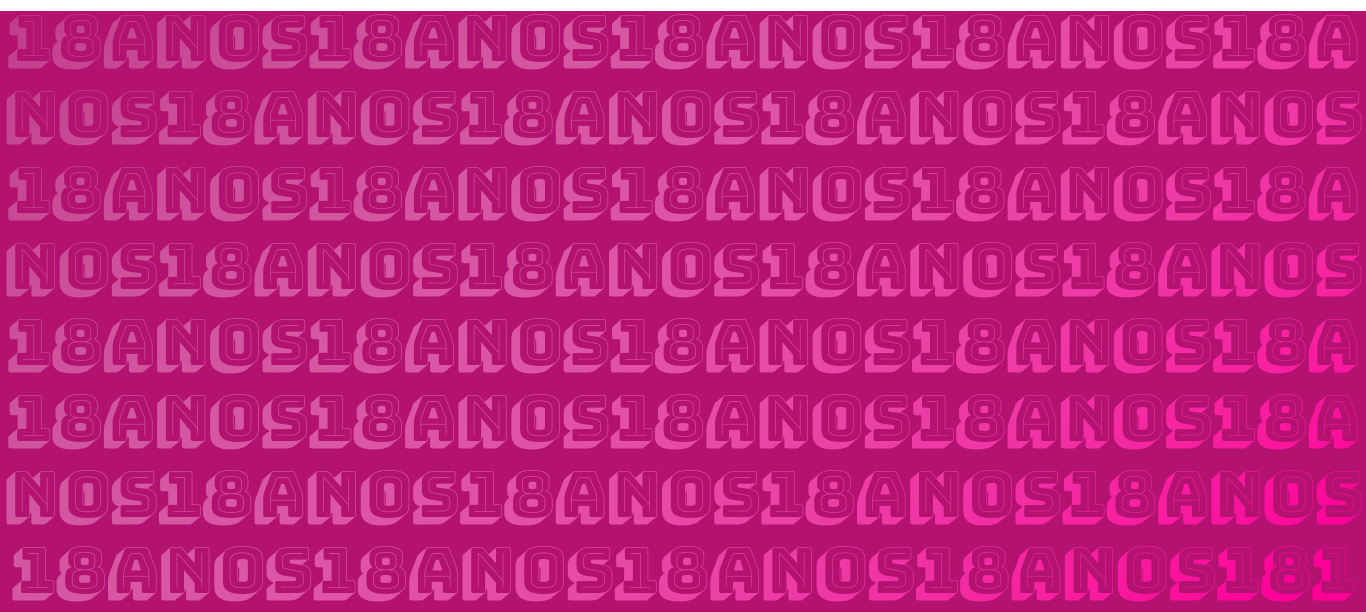
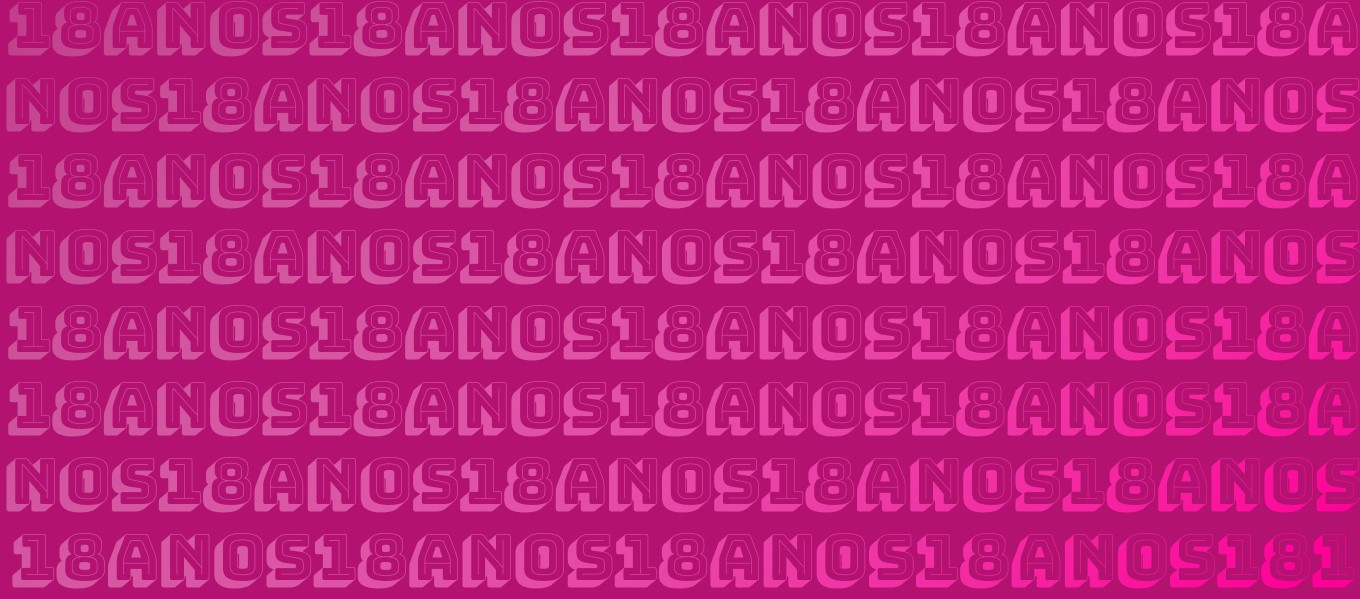
first section created (need mobile fix)

Changed region(s): [[0.0, 0.3907, 1.0, 0.8715], [0.0, 0.0, 1.0, 0.3606], [0.0926, 0.9015, 1.0, 0.9917]]

diff --git a/src/pages/index.js b/src/pages/index.js
@@ -1,12 +1,18 @@
 import styled from 'styled-components';
 import Head from "next/head";
 
-import Container from "../components/Container";
+import { IntroContainer, AboutContainer } from "../components/Container/";
 import Banner from "../components/Banner";
 import Nav from "../components/Menu/Nav";
 
-import bg1 from "../assets/img/section-background.jpg"
-import mobileBg from "../assets/img/mobile-section-background.jpg"
+import {
+  TextWrapper,
+  BlueTitle,
+  BlackTitle,
+  GalleryTitle,
+  Paragraph,
+  BoldParagraph,
+} from "../components/Text";
 
 
 export default function Home() {
@@ -14,23 +20,22 @@ export default function Home() {
     <div className="Home">
       <Head>
         <title>18 anos de SENAI | Escola SENAI de Informática</title>
-        <link rel="shortcut icon" href="favicon.ico" type="image/x-icon"/>
+        <link rel="shortcut icon" href="./favicon.ico" type="image/x-icon" />
       </Head>
 
       <Nav />
       <Banner />
 
-      <Container id="intro" bg={bg1} mobileBg={mobileBg}>
-      </Container>
-      
-      <Container>
+      <IntroContainer>
+        <TextWrapper>
+          <BlueTitle>Mais que uma escola</BlueTitle>
+          <BoldParagraph>Lorem ipsum dolor sit amet consectetur adipisicing elit. Rerum consectetur quis officia architecto, aspernatur fuga vero ipsum impedit repellat soluta nihil libero vitae praesentium perferendis facilis esse? Tempore, porro facere!</BoldParagraph>
+        </TextWrapper>
+      </IntroContainer>
 
-      </Container>
+      <AboutContainer>
+      </AboutContainer>
 
-      <Container>
-        
-      </Container>
-      
     </div>
   )
 }

diff --git a/src/components/Text/index.js b/src/components/Text/index.js
@@ -1,0 +1,61 @@
+import styled from "styled-components";
+
+export const TextWrapper = styled.div`
+    margin: auto;
+    display: flex;
+    flex-direction: column;
+    justify-content: space-around;
+    align-items: left;
+    width: 95%;
+
+    @media(min-width: 801px){
+        width: 700px;
+    }
+`;
+
+const Title = styled.h2`
+    font-size: 35px;
+    font-weight: lighter;
+    line-height: 125%;
+
+    @media(min-width: 801px){
+        font-size: 45px;
+    }
+`;
+
+export const BlueTitle = styled(Title)`
+    font-family: "Bungee Inline", sans-serif;
+    color: #19EFFF;
+`;
+
+export const BlackTitle = styled(Title)`
+    font-family: "Bungee Inline", sans-serif;
+    color: #000;
+`;
+
+export const GalleryTitle = styled(Title)`
+    font-family: "Bungee Shade", sans-serif;
+    letter-spacing: 10px;
+    color: #111;
+`;
+
+
+export const Paragraph = styled.p`
+    width: 100%;
+    font-size: 14px;
+    line-height: 1.8;
+    color: #000;
+    font-family: "Poppins" , sans-serif;
+    margin: .5em 0;
+
+    @media(min-width: 801px){
+        font-size: 16px;
+    }
+`;
+
+export const BoldParagraph = styled(Paragraph)`
+    font-family: "Bungee" , sans-serif;
+    color: #ccc;
+    opacity: 75%;
+`;
+

diff --git a/src/components/Container/index.js b/src/components/Container/index.js
@@ -1,20 +1,25 @@
-import styled from "styled-components";
+import bg from "../../assets/img/section-background.jpg"
+import mobileBg from "../../assets/img/mobile-section-background.jpg";
+import pinkBg from "../../assets/img/pink-lettered-background.jpg";
 
-const Container = styled.div`
-    width: 100%;
-    min-height: 490px;
-    background-image: url(${props => props.bg});
-    background-color: #111;
-    background-repeat: no-repeat;
-    background-size: cover;
-    background-position: center;
-    display: grid;
-    align-items: center;
 
-    @media(max-width: 800px){
-        min-height: 100vh;
-        background-image: url(${props => ( props.mobileBg? props.mobileBg : props.bg) });
-    }
-`;
+import Section from "./styles";
 
-export default Container;
+
+export function IntroContainer(props) {
+    return (
+        <Section bg={bg} mobileBg={mobileBg}>
+            {props.children}
+        </Section>
+
+    )
+}
+
+export function AboutContainer(props) {
+    return (
+        <Section bg={pinkBg}>
+            {props.children}
+        </Section>
+
+    )
+}

diff --git a/src/components/Banner/index.js b/src/components/Banner/index.js
@@ -3,18 +3,19 @@ import backgroundImg from "../../assets/img/banner.jpg";
 import mobileBackgroundImg from "../../assets/img/mobile-banner.jpg";
 
 const Banner = styled.div`
-    min-height: 100vh;
+    min-height: 620px;
     width: 100%;
     background-image: url(${mobileBackgroundImg});
     background-repeat: no-repeat;
     background-size: cover;
-    background-position: top right;
+    background-position: top center;
     /* position: absolute;
     top: 0; */
 
     @media(min-width: 801px){
         min-height: 140vh;
         background-image: url(${backgroundImg});
+        background-position: top right;
     }
 `;
 

diff --git a/src/components/Container/styles.js b/src/components/Container/styles.js
@@ -1,0 +1,21 @@
+import styled from "styled-components";
+
+const Section = styled.section`
+    width: 100%;
+    min-height: 490px;
+    background-image: url(${props => props.bg});
+    background-color: #111;
+    background-repeat: no-repeat;
+    background-size: cover;
+    background-position: top;
+    display: flex;
+    align-items: center;
+    justify-content: center;
+
+    @media(max-width: 800px){
+        min-height: 100vh;
+        background-image: url(${props => props.mobileBg ? props.mobileBg : props.bg});
+    }
+`;
+
+export default Section;

diff --git a/src/styles/global.css b/src/styles/global.css
@@ -21,6 +21,7 @@
   
   ::-webkit-scrollbar-thumb {
     background: #ff0098;
+    border-radius: 5px;
   }
   
   ::-webkit-scrollbar-thumb:hover {

diff --git a/src/components/Menu/MenuButton/index.js b/src/components/Menu/MenuButton/index.js
@@ -46,5 +46,4 @@ const MenuButton = styled.button`
 
 
 
-
 export default MenuButton;
